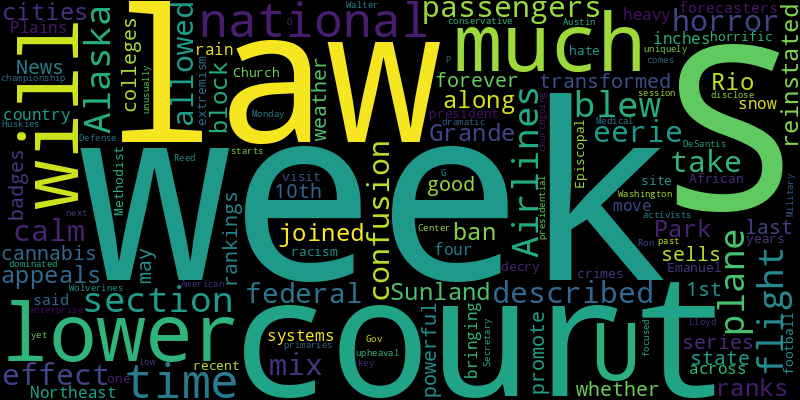
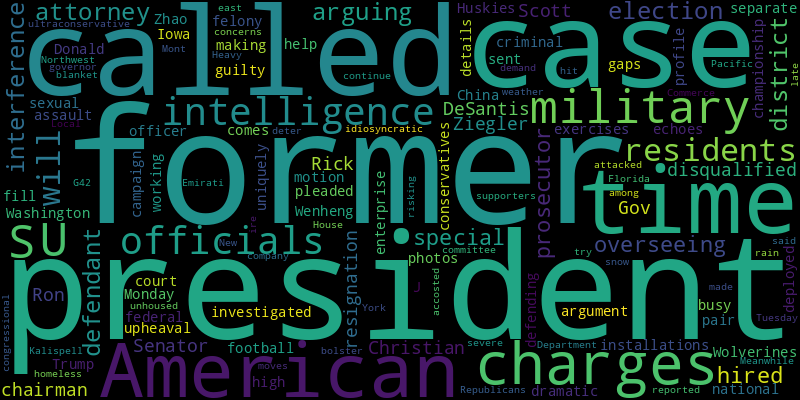
chore(bot): 🟩 auto commit

diff --git a/README.md b/README.md
@@ -2,41 +2,41 @@
 Auto RSS New York Times and Generate Word Cloud
 
 ## New York Times Global News
-* They are the first line of treatment for soldiers wounded on the battlefield, racing against time to try to save lives.
-* The death might have been just a local tragedy. But some of the suspects were from an immigrant community, turning the case into a cause célèbre for the far right.
-* At the University of Haifa, more than 40 percent of students are Arab, some with family in Gaza, and many others have now been called up as soldiers.
-* London’s mayor announced late Sunday afternoon that a strike that would have crippled the city’s transit system this week had been suspended.
-* It is out of step with the continent’s values, many bishops say, and threatens to derail expansion in the church’s fastest growing region in the world.
-* With the opposition in jail or off the ballots in a boycott, the prime minister for the past 15 years was expected to maintain her grip on power in what appeared to be a low-turnout vote.
-* Seven Palestinians were killed in a drone strike and a 3-year-old girl was fatally shot in what the Israeli police said may have been a case of errant fire as a car rammed a border post.
-* The survivor, who was in her 90s, was dug out from under a collapsed house, injured but responsive.
-* “The lucky are those who have someone to bury them when they die,” Dr. Mohammad Abu Moussa, a radiologist at one Gaza hospital, said of those killed by Israeli airstrikes.
-* Ukrainian officials said missile assaults had struck private houses, trapping residents under the rubble, and that the dead included five children.
+* Secretary of State Antony J. Blinken is meeting with Israeli officials who are at odds with some U.S. positions on the war.
+* In the ruins of two Gazan towns, New York Times journalists witnessed the sheer destruction that Israel’s war has wrought and the devastation of Hamas’s operations.
+* The country’s forces along a broad stretch of the front say that, with Russia pushing forward, the war has never been so dangerous.
+* Why has Brazil united in rejecting last year’s insurrection, while the United States remains deeply divided over Jan. 6?
+* The pope said that an unborn child must not be “turned into an object of trafficking,” expanding his condemnation of a practice already illegal in Italy and some other European countries.
+* Élisabeth Borne, only the second woman to occupy the position, stepped down as President Emmanuel Macron tries to inject fresh energy into his second term.
+* Some in the Maldives were critical of Prime Minister Narendra Modi’s trip to nearby Indian islands to promote tourism, seeing it as an attempt to draw visitors away from their nation.
+* Ousman Sonko served the authoritarian president of Gambia for years, seeking asylum in Switzerland after losing his job. Now he faces charges of crimes against humanity.
+* The decision by the Supreme Court paves the way for a former prime minister, Nawaz Sharif, to run in parliamentary elections in February.
+* The Ministry of State Security says the consultant collected intelligence and found people on behalf of MI6, Britain’s spy agency.
 
 ![Global](./global.png)
 ## New York Times United States News
-* After a section of the Alaska Airlines flight blew out of the plane, passengers described a mix of horror, confusion and eerie calm.
-* Just a week after the law was allowed to take effect, a federal appeals court reinstated a lower court’s block on the ban.
-* Sunland Park, along the Rio Grande, has joined the ranks of U.S. cities transformed by state cannabis laws. But the good times may not last forever.
-* U.S. News sells “badges” to colleges, so they can promote their rankings — whether they are 1st, 10th or much, much lower.
-* A series of powerful weather systems will move across the country, bringing heavy snow to the Plains and up to four inches of rain to the Northeast, forecasters said.
-* The president will visit Emanuel African Methodist Episcopal Church, the site of one of the most horrific hate crimes of recent years, to decry racism and extremism.
+* A defendant in the election interference case is arguing that the district attorney overseeing it and a special prosecutor she hired should be disqualified.
+* Gov. Ron DeSantis and Senator Rick Scott had called for the resignation of the chairman, Christian Ziegler, who is being investigated for sexual assault.
+* The motion echoes an argument that former President Donald J. Trump is making in a separate federal criminal case against him.
 * The national football championship on Monday between the Wolverines and Washington Huskies comes at a time of dramatic upheaval for a uniquely American enterprise.
-* They are not just the churchgoing, conservative activists who once dominated the G.O.P.
-* With Gov. Ron DeSantis focused on the presidential primaries, the session that starts next week could be unusually low key.
-* Defense Secretary Lloyd Austin has yet to disclose why he has been at Walter Reed National Military Medical Center for the past week.
+* Wenheng Zhao pleaded guilty to charges that he sent photos of American military installations and details of U.S. military exercises to an intelligence officer working for China.
+* With the former president busy defending himself in court from 91 felony charges, his campaign has deployed high-profile conservatives to help fill the gaps in Iowa.
+* A pair of idiosyncratic, ultraconservative House Republicans are risking the ire of the former president and his supporters to try to bolster the Florida governor.
+* Local officials called for residents to deter the homeless in Kalispell, Mont., but unhoused residents said they were then accosted and attacked.
+* A congressional committee made the demand of the Commerce Department after The Times reported on concerns among U.S. intelligence officials over the Emirati company, G42.
+* Heavy rain will hit New York late Tuesday, as severe weather moves east. Meanwhile, snow will continue to blanket the Pacific Northwest.
 
 ![US](./usnews.png)
 ## New York Times Asia News
+* A congressional committee made the demand of the Commerce Department after The Times reported on concerns among U.S. intelligence officials over the Emirati company, G42.
+* Breeding, killing and selling dogs for their meat will be banned in a country where it has fallen out of favor. Hundreds of thousands of the animal were still being bred for human consumption.
+* Also, a recap of the Golden Globes.
+* The decision by the Supreme Court paves the way for a former prime minister, Nawaz Sharif, to run in parliamentary elections in February.
+* Some in the Maldives were critical of Prime Minister Narendra Modi’s trip to nearby Indian islands to promote tourism, seeing it as an attempt to draw visitors away from their nation.
+* The case of Bilkis Bano, who was three months pregnant when she was attacked, became a powerful symbol of communal bloodshed and of the widespread violence against women in the country.
 * The Ministry of State Security says the consultant collected intelligence and found people on behalf of MI6, Britain’s spy agency.
 * Plus why the first galaxies were banana-shaped.
 * The president is under pressure from Democrats and Republicans to block the sale to Japan’s Nippon Steel, which could upset a key foreign ally.
 * With the opposition in jail or off the ballots in a boycott, the prime minister for the past 15 years was expected to maintain her grip on power in what appeared to be a low-turnout vote.
-* The survivor, who was in her 90s, was dug out from under a collapsed house, injured but responsive.
-* Attacks on two dozen ships since November are forcing shipping lines to figure out whether and when to skip the Suez Canal and send vessels on longer voyages around Africa.
-* Critics say that hard-won progress toward democracy in Indonesia has been backsliding under Joko Widodo, a two-term president who was once a political outsider.
-* The recall follows a similar move by the company in the United States to upgrade the cars’ Autopilot feature.
-* The Africa Cup of Nations and the Asian Cup, once seen as poorly timed intrusions by European soccer, may finally be getting the respect they deserve.
-* Prime Minister Sheikh Hasina is expected to roll to a fourth consecutive term as the gutted opposition boycotts what it calls an unfair election.
 
 ![Asian](./asian.png)
